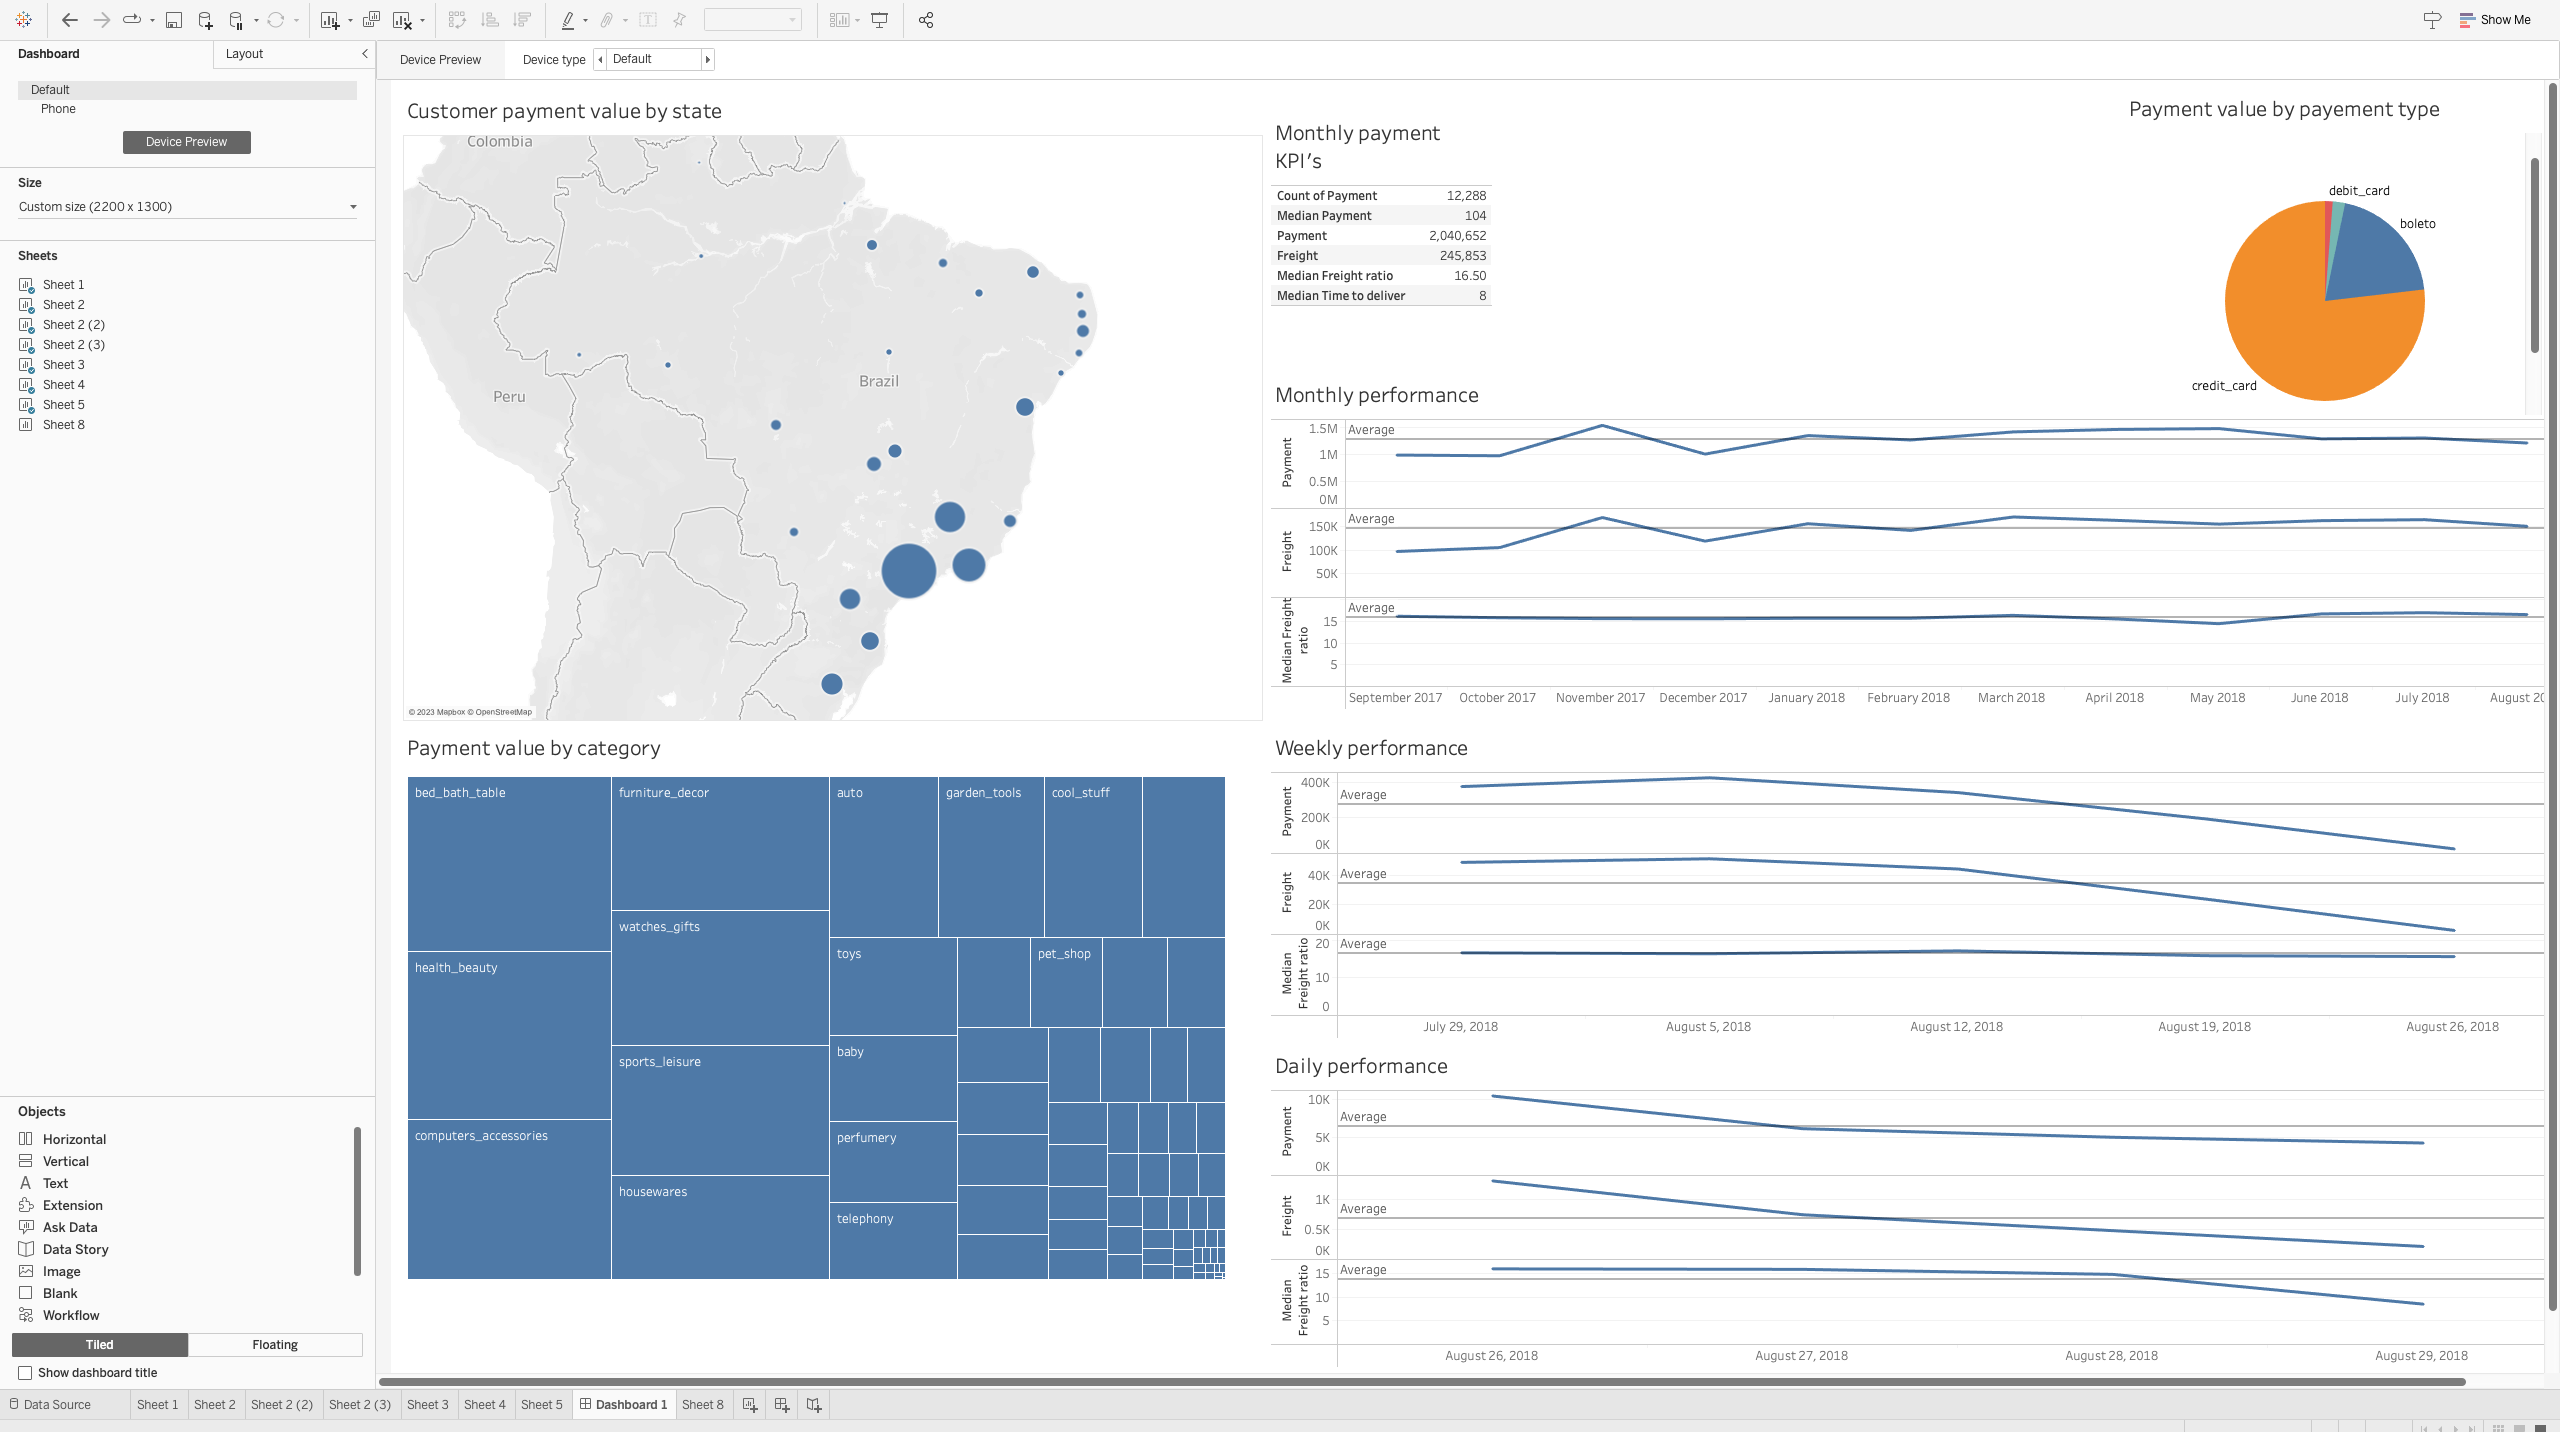
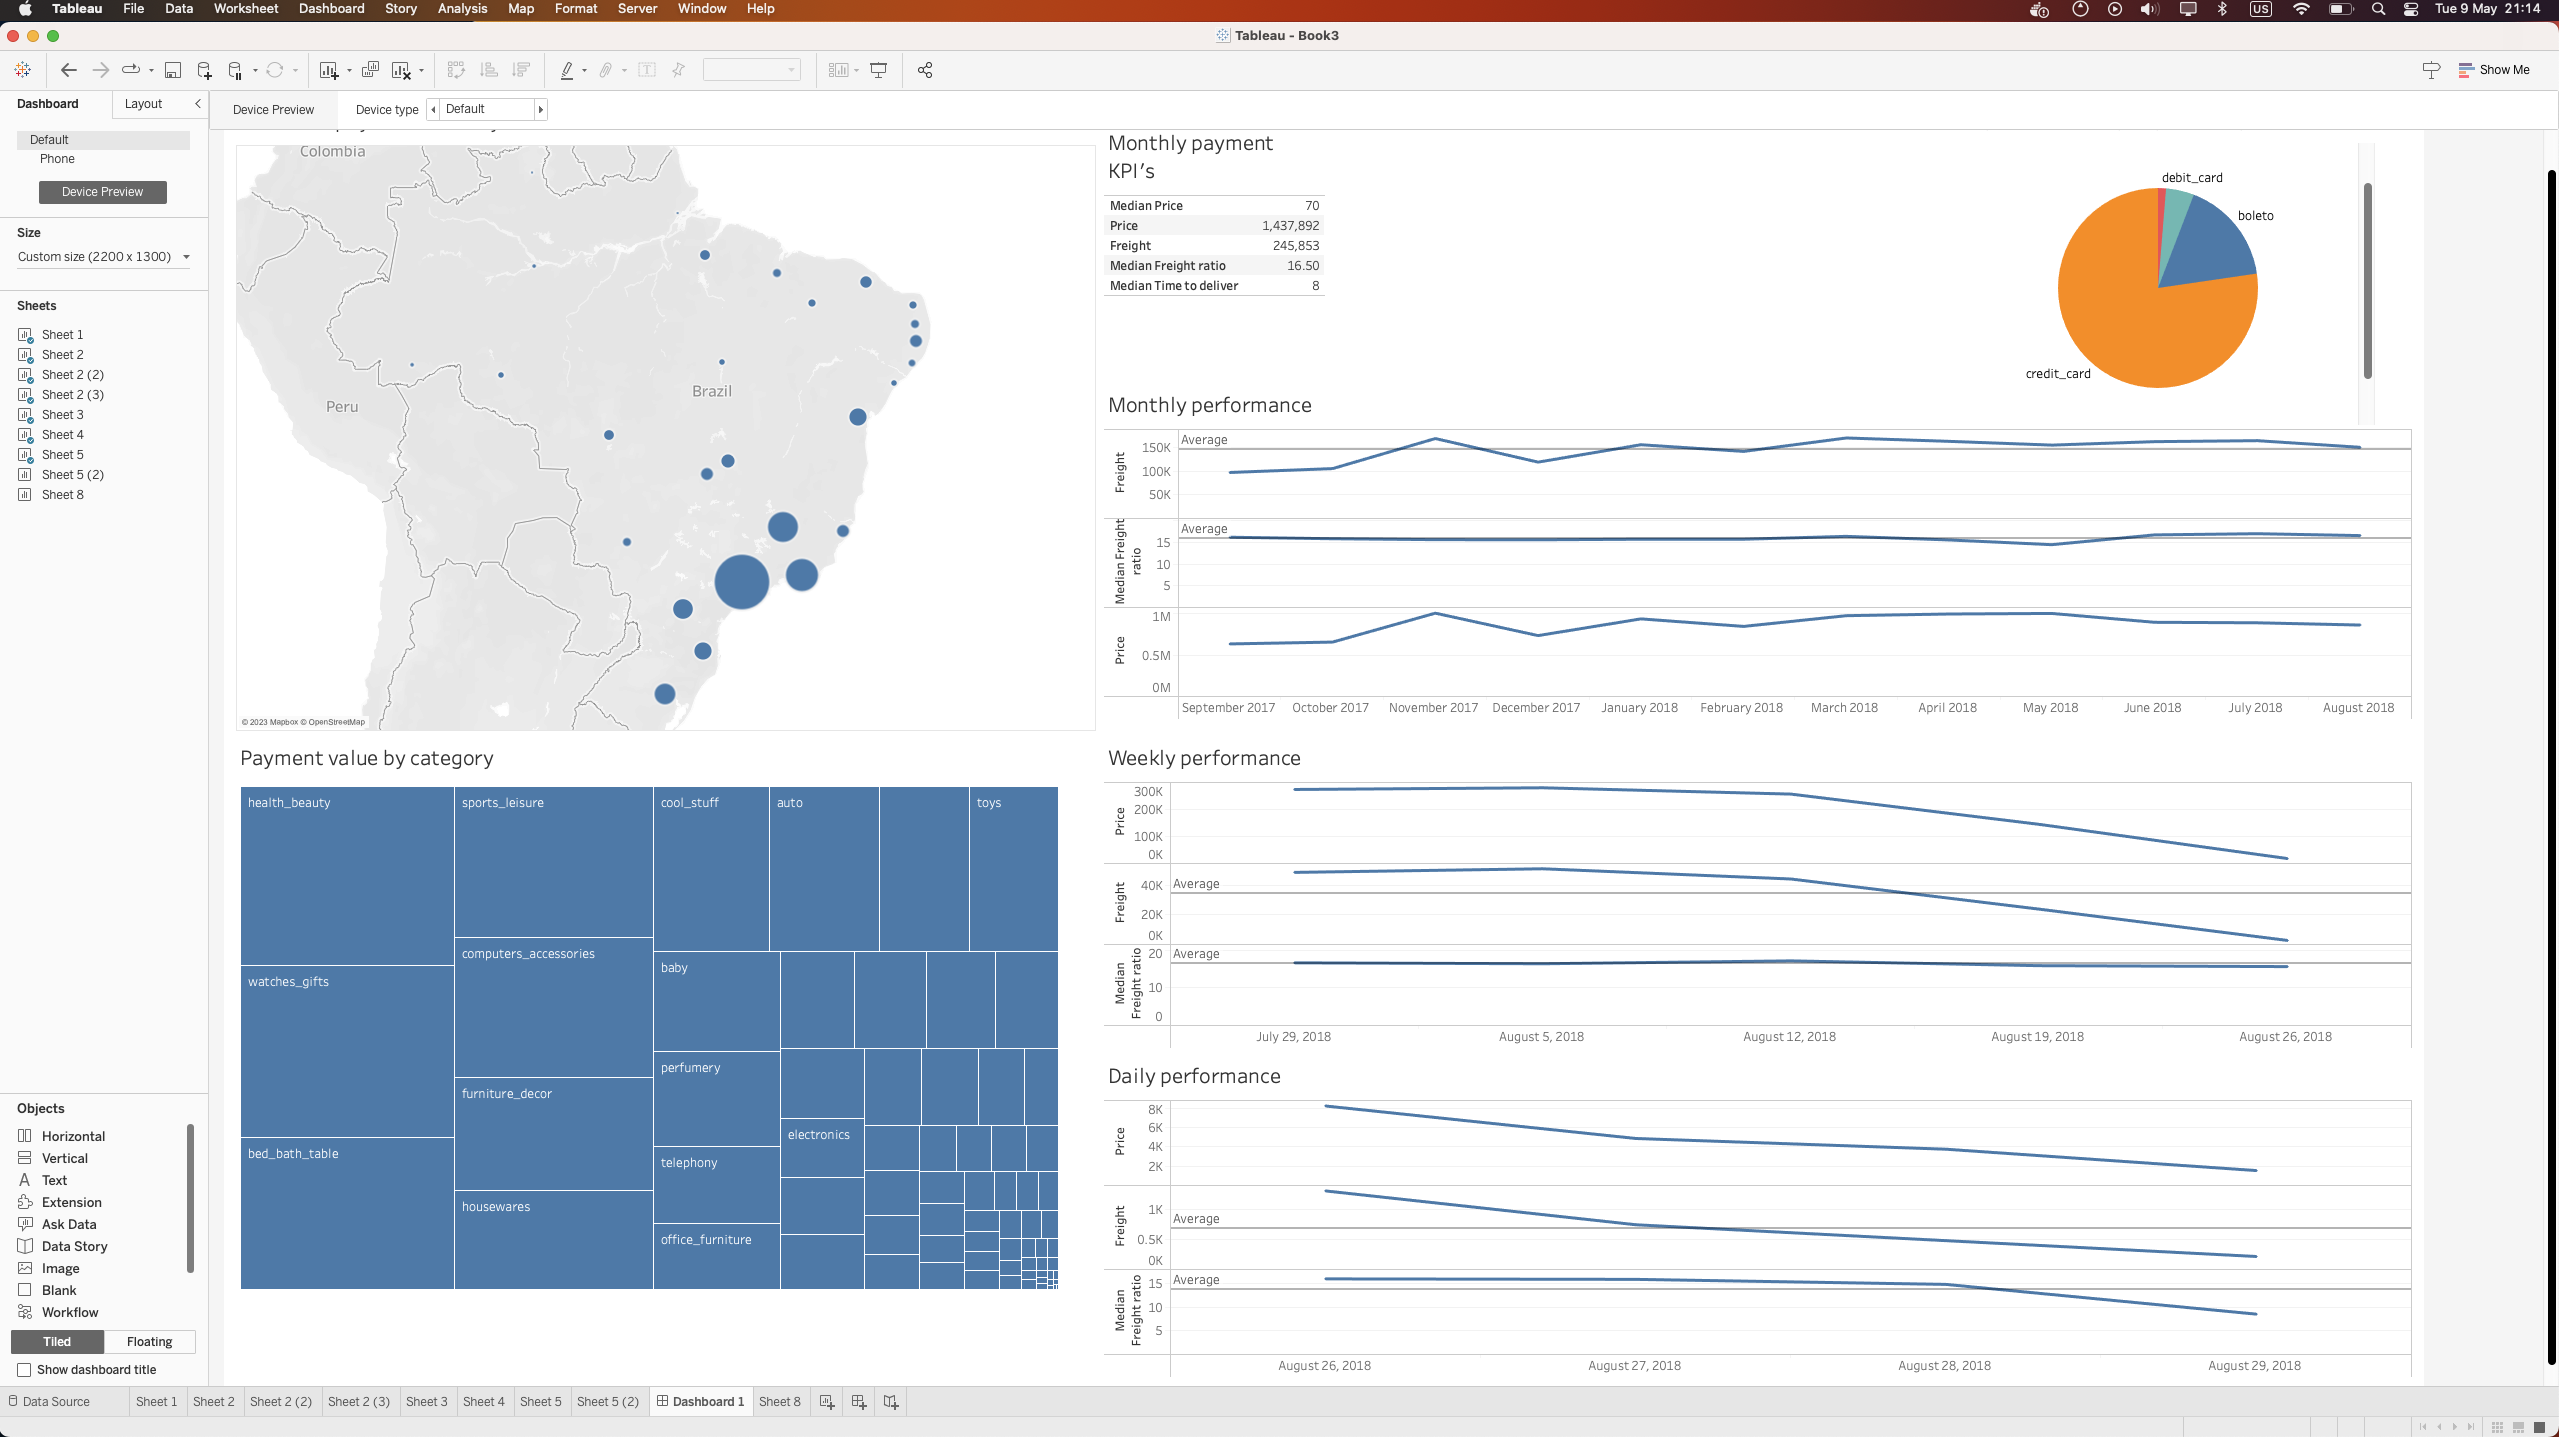
feat(bi): 2 lab report

diff --git a/bi_systems/report.md b/bi_systems/report.md
@@ -117,7 +117,7 @@ product_sales }|..|| delivery_time
 
 Фактом є продаж продукту
 1. Price - ціна проданого продукту(варто зазначити, що у різний час ціна може бути різна)
-2. Freight price - ціна доставки.
+2. Freight value - ціна доставки.
 
 ### Pivot таблиця обʼєму покупок по рокам на перетені зі штатом покупця
 
@@ -126,3 +126,20 @@ product_sales }|..|| delivery_time
 ### Pivot таблиця drill down по місяцям останнього року на перетені зі штатом покупця по обʼєму покупок
 
 ![Pivot таблиця drill](./pivot_drill.png)
+
+
+# Task 2
+
+
+Короткий опис:
+1. Нагорі зліва - обʼєм продажів за штатом покупців
+2. Внизу зліва - обʼєм продажів за категорією продукту
+3. Нагорі зправа - обʼєм продажів за типом оплати
+4. Нагорі по центру - таблиця KPI за місяць
+5. Центр справа - sparklines table для KPI за тижнями, місяцями, днями. Основні метрики - ціна продажу, ціна доставки та медіанне відношення доставки до ціни.
+
+![dashboard](./dashboard.png)
+Dashboard - з повною підтримкою фільтрації при натисканні.
+
+Приклад фільтрації за штатом покупців Sao Paulo([штат, в якому в місті Sao Paulo заборонили зовнішню візуальну рекламу](https://99percentinvisible.org/article/clean-city-law-secrets-sao-paulo-uncovered-outdoor-advertising-ban/)):
+![dashboard](./filtered_dashboard.png)
